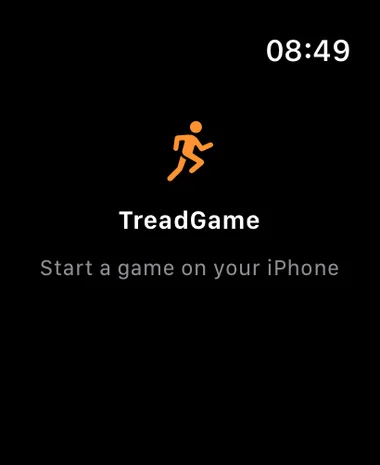
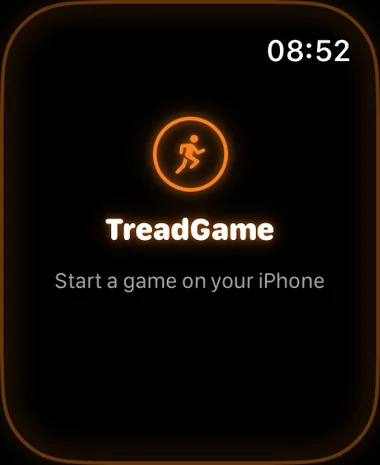
TreadGame watch images: fresh Apple Watch captures
The idle screen and the in-game controller (live heart rate and speed)
from the current neon watch app, in the spotlight and the work row.

Claude-Session: https://claude.ai/code/session_0141VCELX67TocsEpz6wvonb

diff --git a/index.html b/index.html
@@ -2797,8 +2797,8 @@
       </div>
       <p class="tile-cap">All 35 — Bingo 90 · Bingo 75 · Hide &amp; Seek · Capture the Flag · Catch Me If You Can · Intervals · Chase the Alien · Observation · Road Racer · Memory Lanes · Crossroads · Runner Maze · Escape · Blackout · Light Trail · Courier · Beacons · Control · Pursuit · Floodlight · Coin Collector · Bank the Colour · Countdown · Light the Path · Portals · Keep the Ball · Clocks · Slipstream · Spokes · Claim · Tag · Hive · Drift · Forage · Beeline</p>
       <div class="spot-watch reveal">
-        <img src="assets/tread-watch-ultra.webp" width="380" height="465" alt="TreadGame controls on Apple Watch" loading="lazy" decoding="async">
-        <img src="assets/tread-watch-galaxy.webp" width="380" height="465" alt="TreadGame controls on Galaxy Watch" loading="lazy" decoding="async">
+        <img src="assets/tread-watch-ultra.webp" width="380" height="465" alt="TreadGame on Apple Watch, waiting for a game to start on the iPhone" loading="lazy" decoding="async">
+        <img src="assets/tread-watch-galaxy.webp" width="380" height="465" alt="TreadGame controls on the watch: direction buttons with live heart rate and speed" loading="lazy" decoding="async">
         <p>Buttons on your wrist — <span>Apple Watch and Wear OS</span> both work as controllers, so you can steer without breaking stride.</p>
       </div>
     </div>
